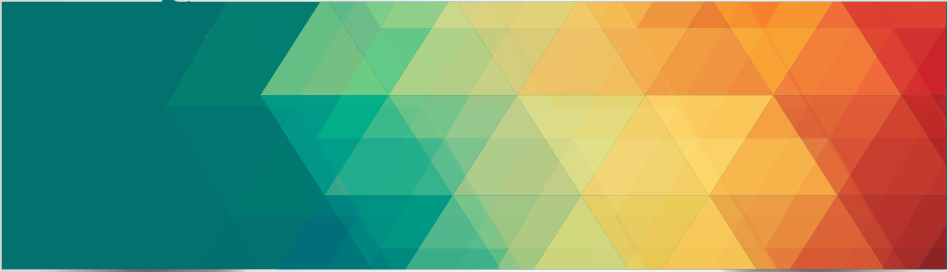
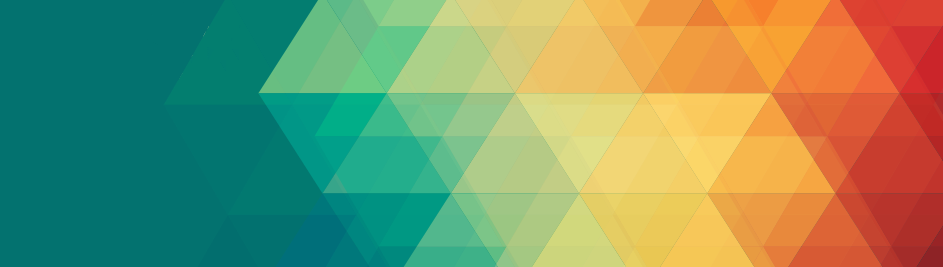
Gave credit for image, fixed image cropping

diff --git a/index.html b/index.html
@@ -37,6 +37,7 @@
 
     <div class="front-brand-bar">
         <h1>Dali Designs</h1>
+        <p class="credit"> <a href="http://www.freepik.com/free-vector/abstract-geometric-banners_764595.htm">Designed by Freepik</a></p>
     </div>
 
      

diff --git a/css/styles.css b/css/styles.css
@@ -11,5 +11,7 @@
     color: white;
     font-size: 48px;
     font-family: 'Kaushan Script', cursive; }
+  .front-brand-bar .credit {
+    display: none; }
 
 /*# sourceMappingURL=styles.css.map */

diff --git a/scss/_header.scss b/scss/_header.scss
@@ -13,5 +13,9 @@
     font-size: 48px;
     font-family: 'Kaushan Script', cursive;
     }   
+    
+    .credit {
+        display: none;
+    }
       
 }   
